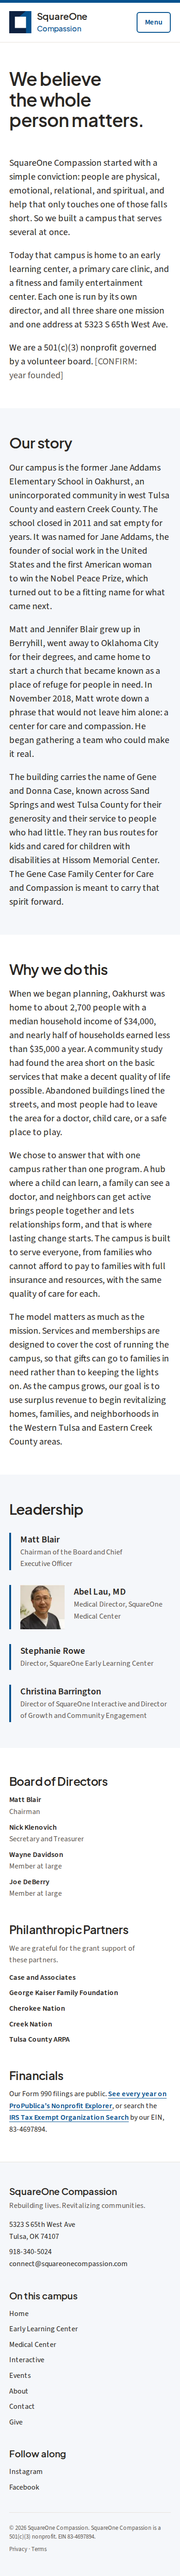
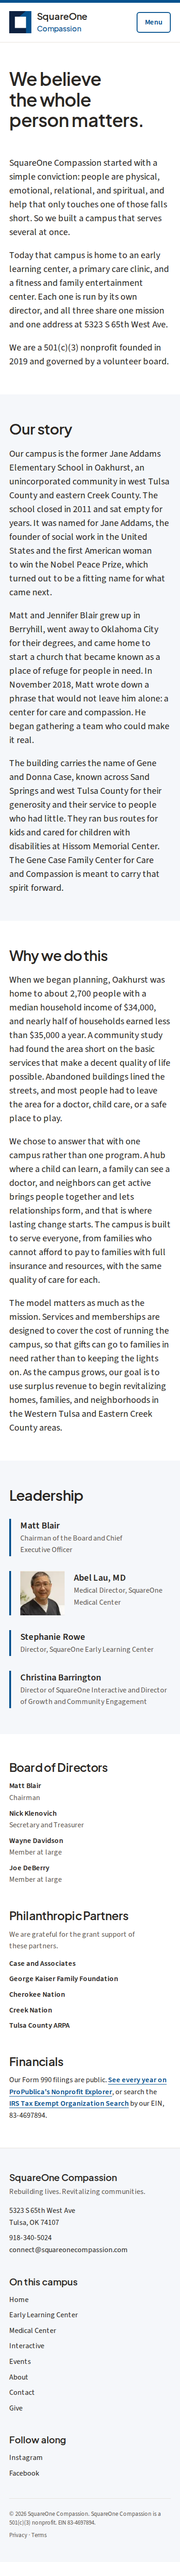
About: founded in 2019
Claude-Session: https://claude.ai/code/session_01Dy1NBE1CDjARVuM4emY1ru

Changed region(s): [[0.0308, 0.0312, 0.9231, 0.9667]]

diff --git a/app/about/page.tsx b/app/about/page.tsx
@@ -1,7 +1,6 @@
 import type { Metadata } from 'next'
 import { PageIntro, Section } from '@/components/Section'
 import { StaffCard } from '@/components/StaffCard'
-import { Confirm } from '@/components/Confirm'
 import { photo } from '@/lib/photos'
 import { ORG } from '@/lib/site'
 
@@ -29,7 +28,7 @@ export default function AboutPage() {
             Today that campus is home to an early learning center, a primary care clinic, and a fitness and family entertainment center. Each one is run by its own director, and all three share one mission and one address at 5323 S 65th West Ave.
           </p>
           <p>
-            We are a 501(c)(3) nonprofit governed by a volunteer board. <Confirm>year founded</Confirm>
+            We are a 501(c)(3) nonprofit founded in 2019 and governed by a volunteer board.
           </p>
         </div>
       </Section>

diff --git a/CONFIRM.md b/CONFIRM.md
@@ -50,7 +50,7 @@ See `.env.example`. Without these:
 - [ ] **Our story figures are dated.** The Oakhurst numbers (about 2,700 people, $34,000 median household income, nearly half of households under $35,000) come from the 2018 proposal, which cited a 2013 study. The page says "when we began planning" so they are honest, but fresher census figures would be stronger.
 - [ ] **Building name.** The story uses "The Gene Case Family Center for Care and Compassion" to match the sign on the building; the proposal said "The Gene and Donna Case Family Center." Confirm which is official.
 - [ ] **"Gifts go to families in need" model line.** The proposal said 100% of contributions go to families because services cover operating costs. The page states it as the design intent, not a guarantee. Confirm the wording is one you can stand behind, or soften further.
-- [ ] Year founded
+- [x] Year founded: 2019
 - [x] Director of Interactive Center: Christina Barrington (also Director of Growth and Community Engagement)
 - [x] Board of Directors listed (Matt Blair, Nick Klenovich, Wayne Davidson, Joe DeBerry)
 - [x] Campus partners block removed; replaced with Philanthropic Partners (grant funders)

diff --git a/content/COPY.md b/content/COPY.md
@@ -73,7 +73,7 @@ SquareOne Compassion started with a simple conviction: people are physical, emot
 
 Today that campus is home to an early learning center, a primary care clinic, and a fitness and family entertainment center. Each one is run by its own director, and all three share one mission and one address at 5323 S 65th West Ave.
 
-We are a 501(c)(3) nonprofit governed by a volunteer board. `[CONFIRM: year founded]`
+We are a 501(c)(3) nonprofit founded in 2019 and governed by a volunteer board.
 
 **Our story** (from the original proposal, docs-source/business-plan.pdf)
 
